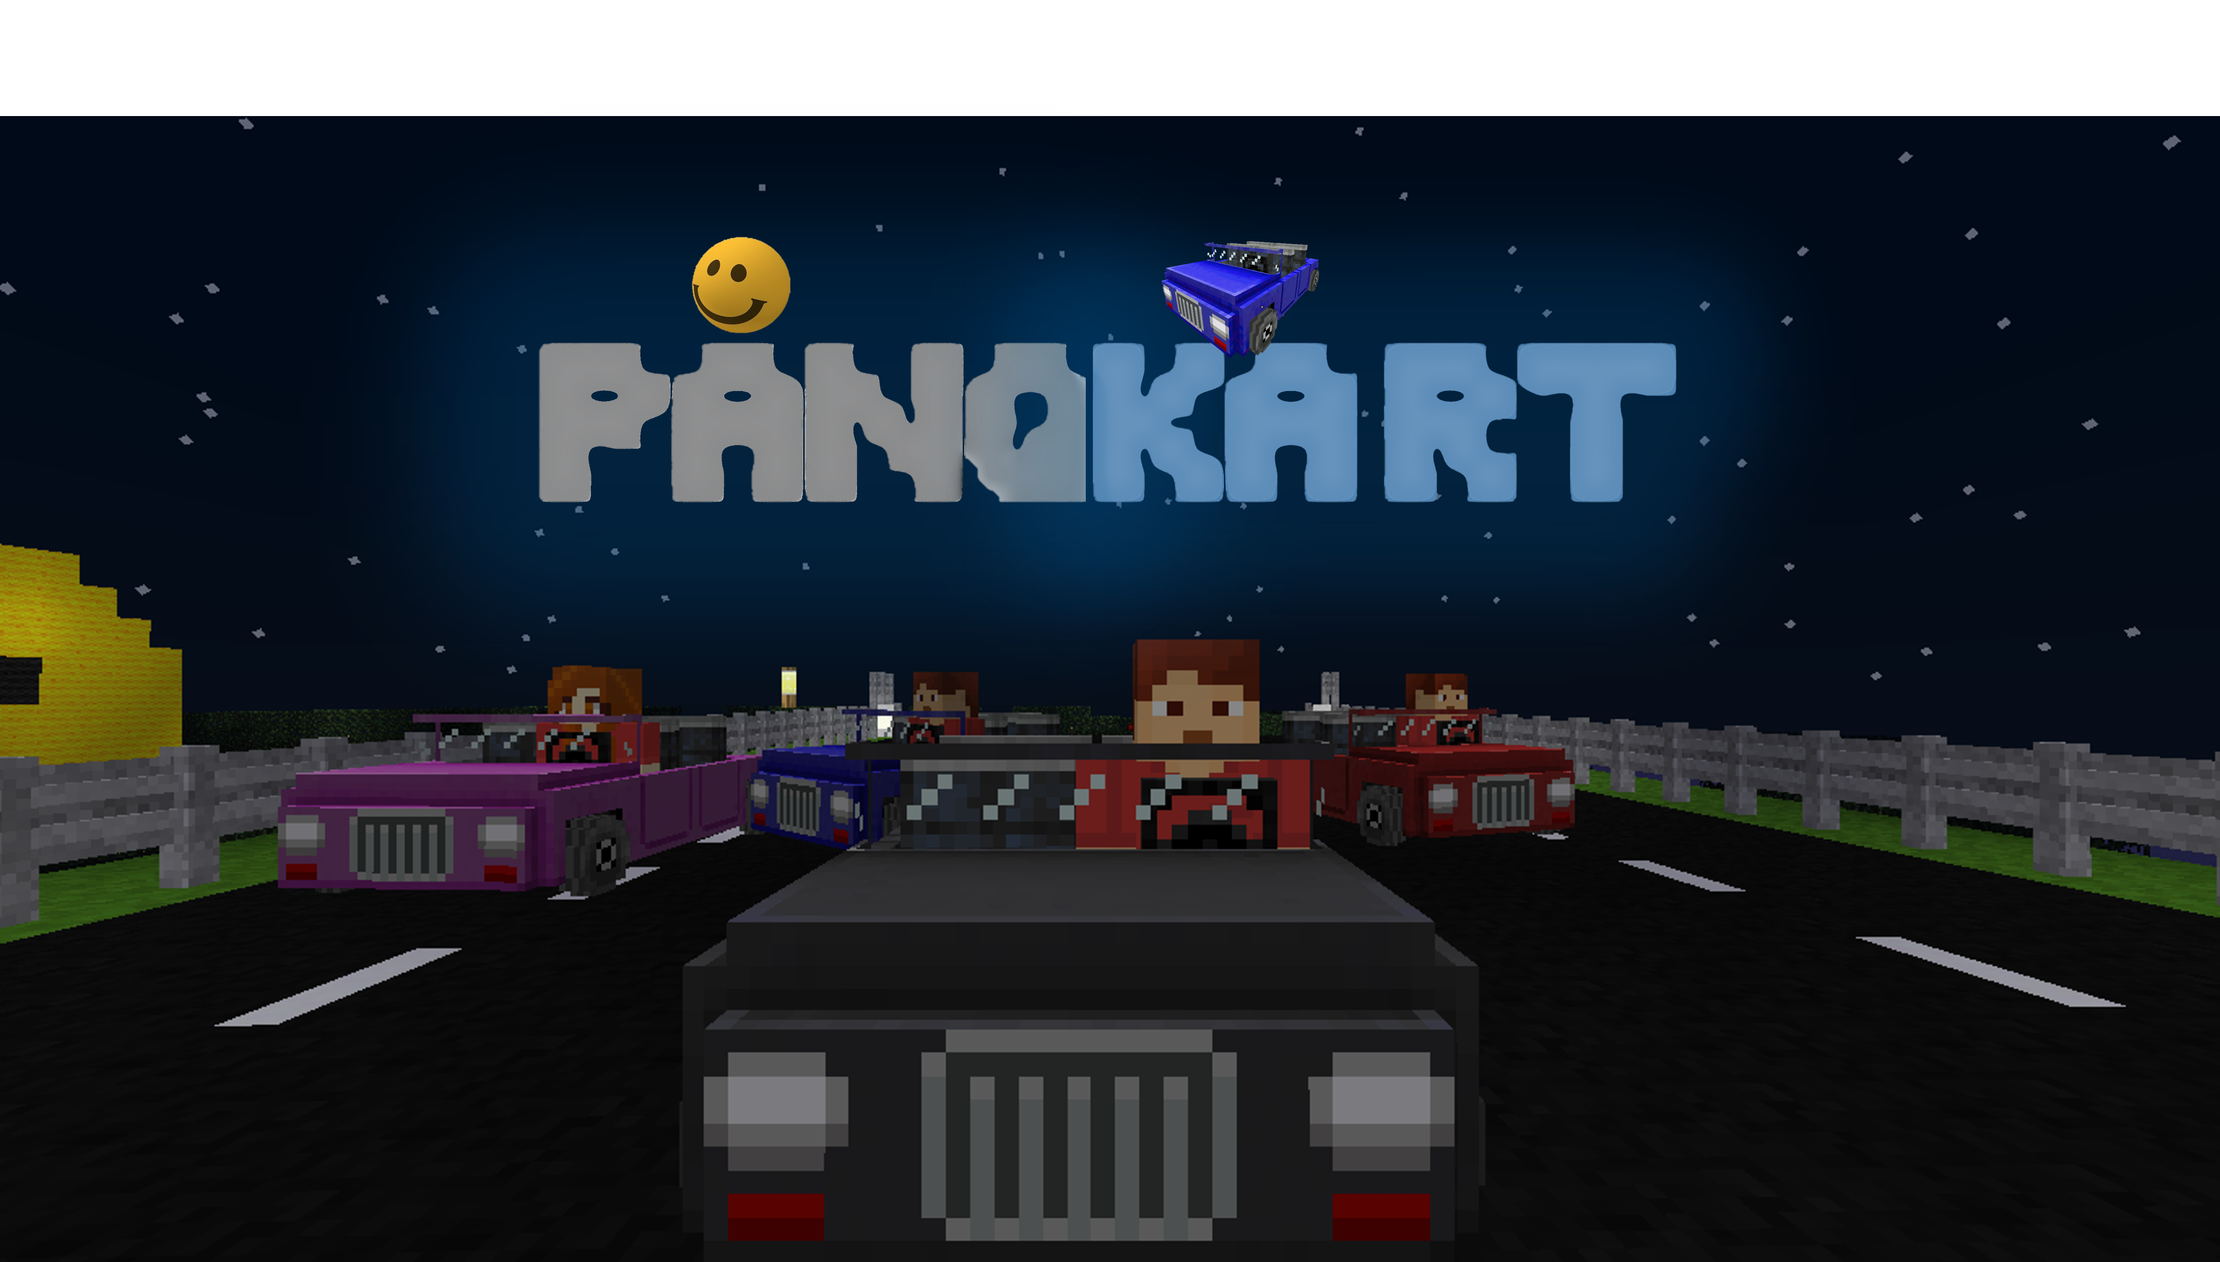
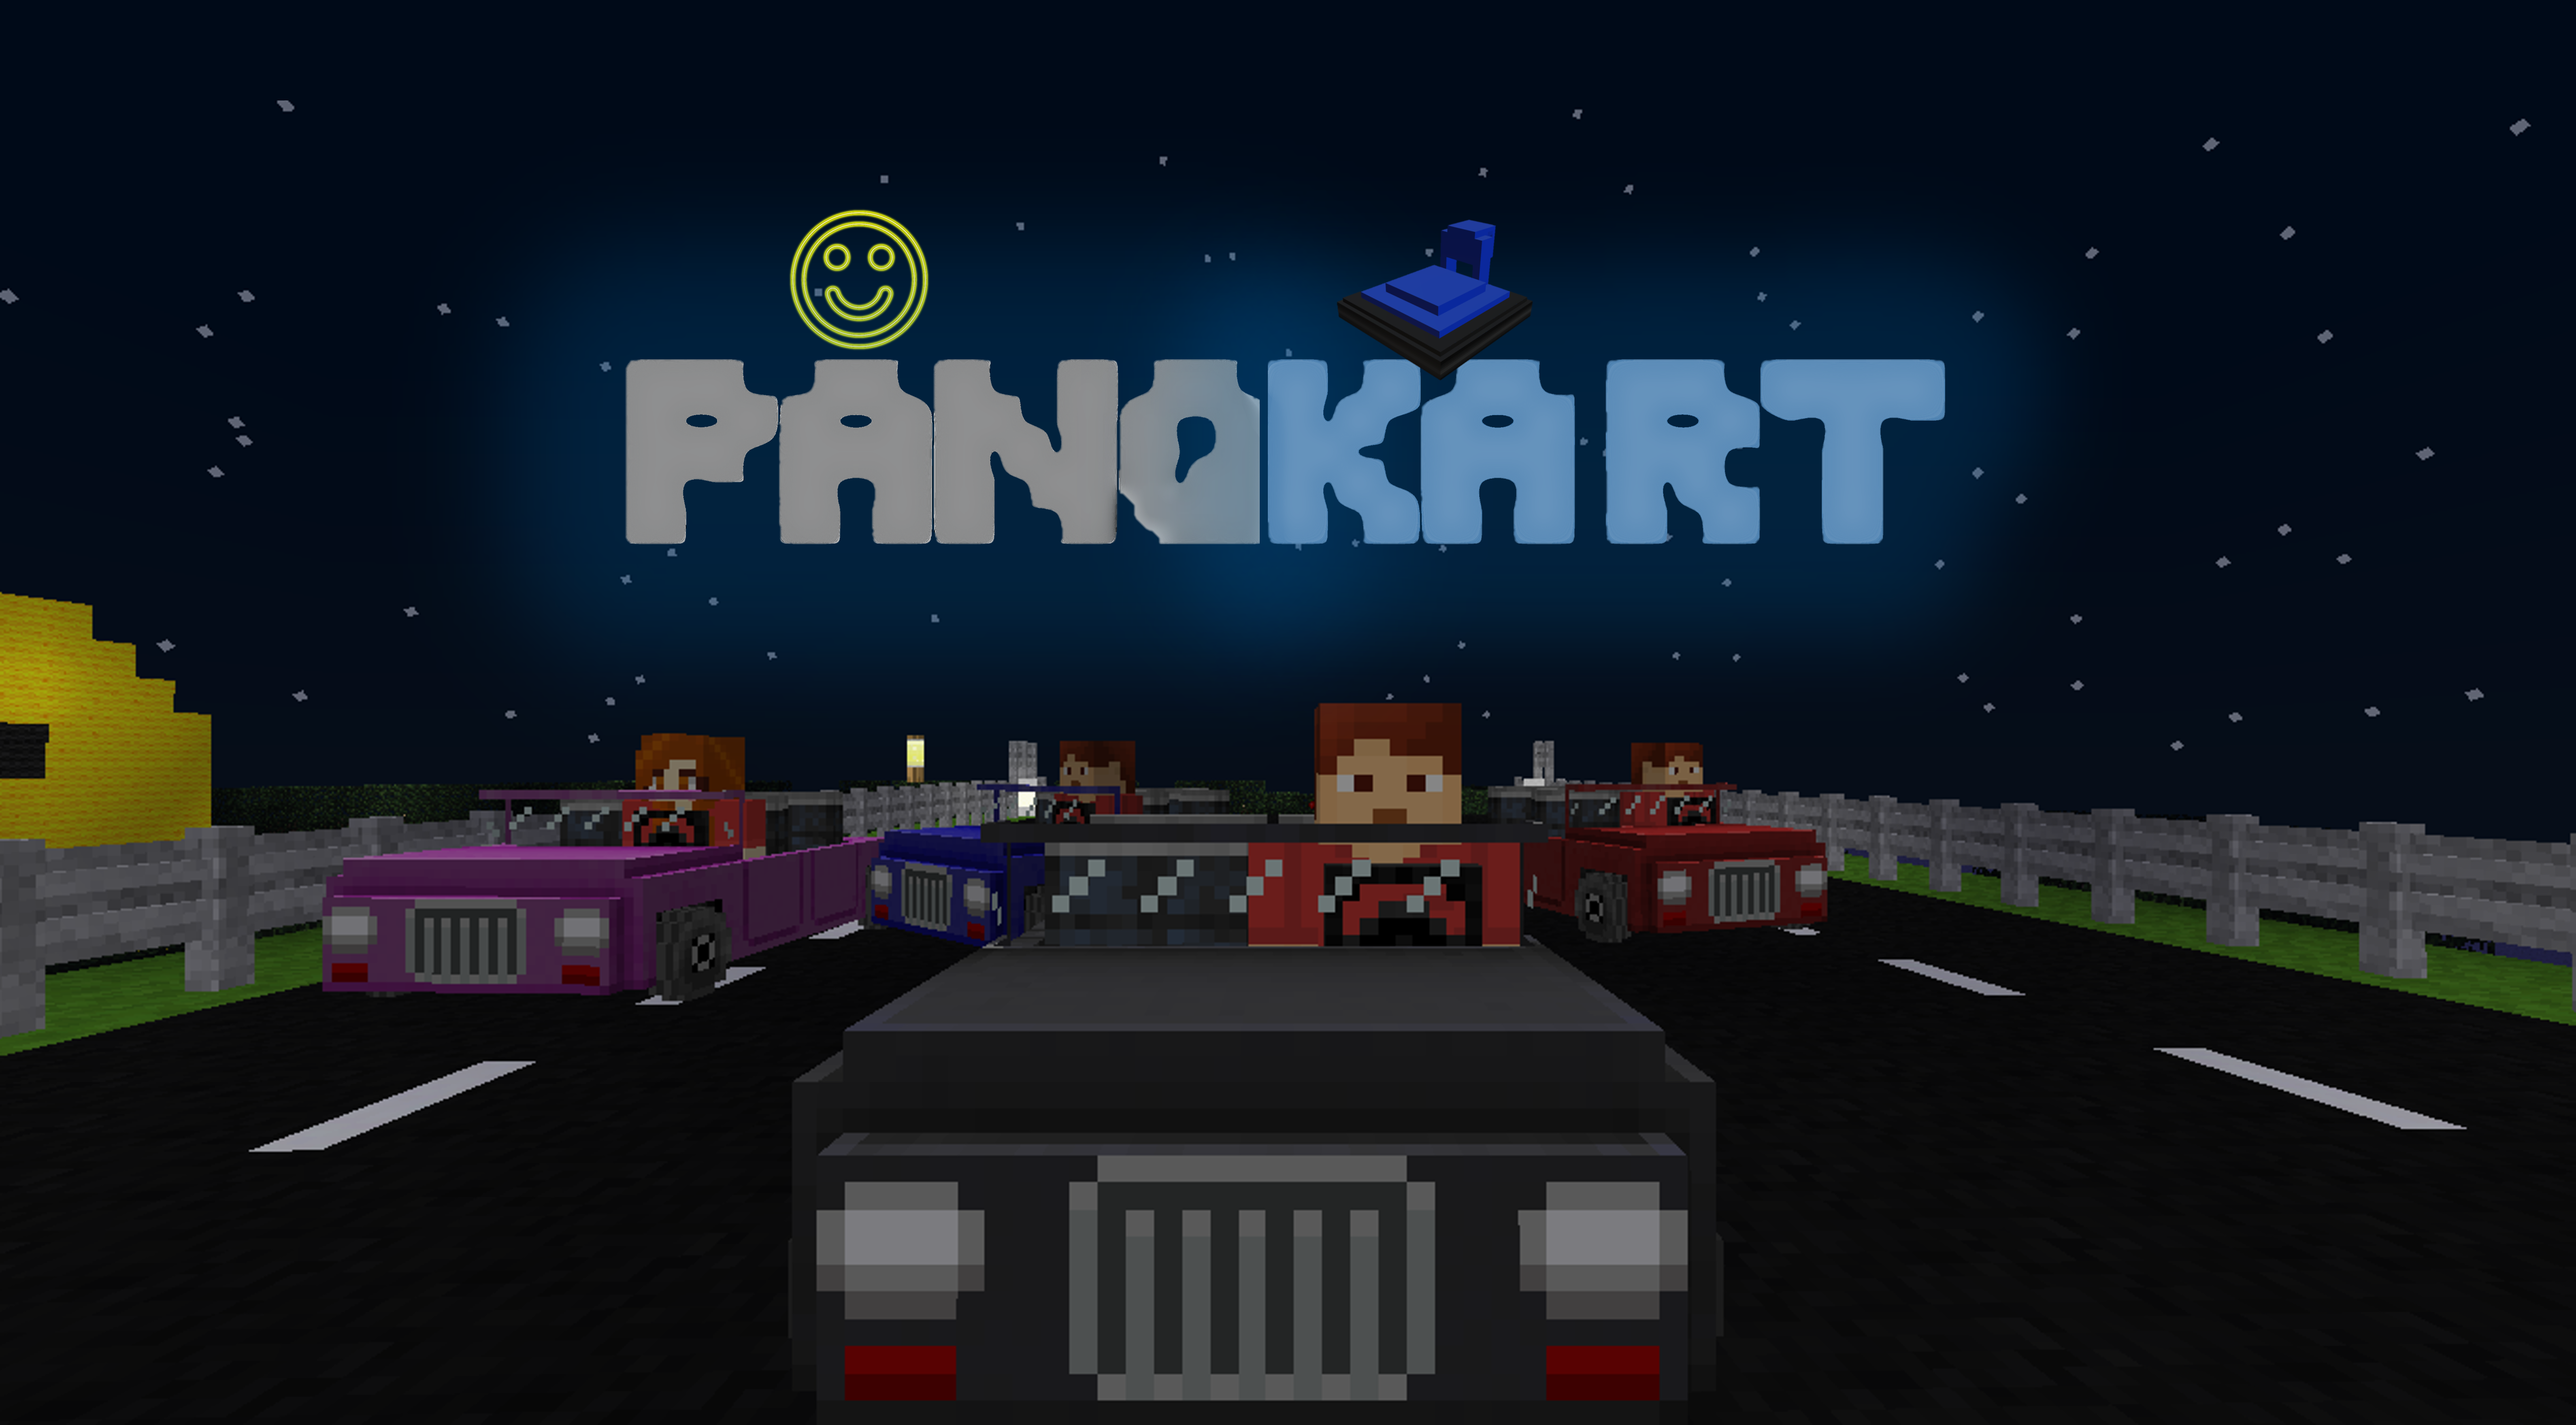
License and header updates

diff --git a/LICENSE.md b/LICENSE.md
@@ -22,7 +22,8 @@ If not yet specified, all media/textures fall under [CC BY-SA 4.0 International]
 
 License of `menu/header.png`:
 
-- The green car was taken from <https://forum.minetest.net/viewtopic.php?f=9&t=6512> ([CC BY-NC-SA 3.0](https://creativecommons.org/licenses/by-nc-sa/3.0/))
+- The green Hovercraft model was taken from <https://github.com/stujones11/hovercraft> ([CC BY-SA 3.0](https://creativecommons.org/licenses/by-sa/3.0/))
+  - The version's not specified. I'm going to assume they used CC BY-SA 3.0 (it was the last version when the last commit was made, July 2013. CC BY-SA 4.0 was released in November 2013).
 - The smiley face was made by [**Gabri**](https://liberapay.com/Methro), a.k.a. "Methro", "SiLeNT", "chocomint"; licensed under the [CC BY-SA 4.0 International](https://creativecommons.org/licenses/by-sa/4.0/) license.
 
 Copyright (C) 2022 David Leal <halfpacho@gmail.com>\
